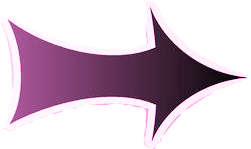
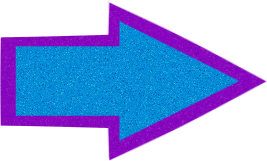
Made a paperish arrow. Disabled arrow indicators from gravity field.

diff --git a/Lords-of-Distortion/Assets/Scripts/Player Scripts/Controller2D.cs b/Lords-of-Distortion/Assets/Scripts/Player Scripts/Controller2D.cs
@@ -107,8 +107,8 @@ public class Controller2D : MonoBehaviour {
 	}
 
 	void Awake(){
-		if(GameObject.Find("LobbyGUI") == null){
-		lives = GameObject.FindGameObjectWithTag("ArenaManager").GetComponent<ArenaManager>().totallives;
+		if(!OFFLINE && GameObject.Find("LobbyGUI") == null){
+			lives = GameObject.FindGameObjectWithTag("ArenaManager").GetComponent<ArenaManager>().totallives;
 		}
 		crouchDisable = true;
 		powerInvulnerable = false;
